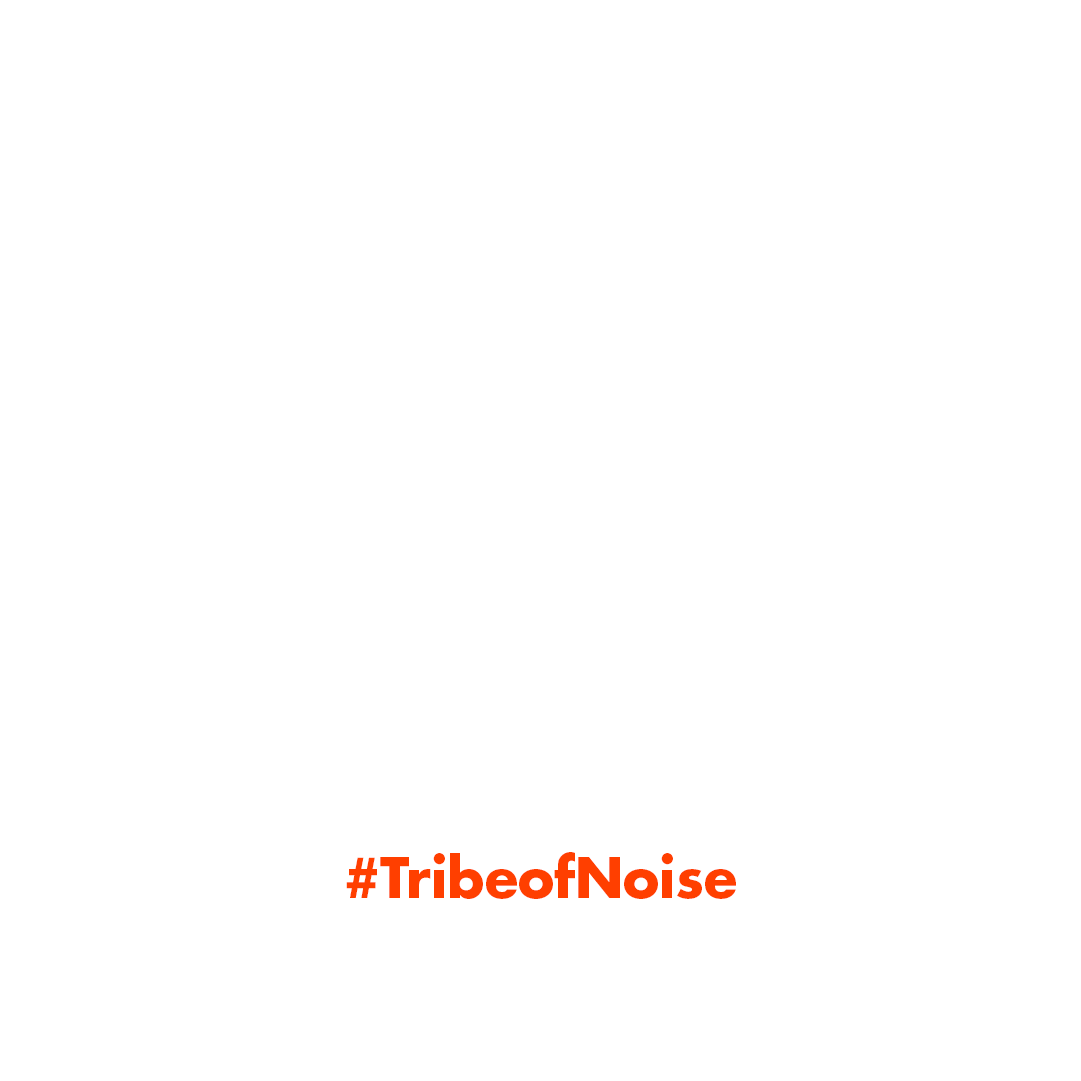
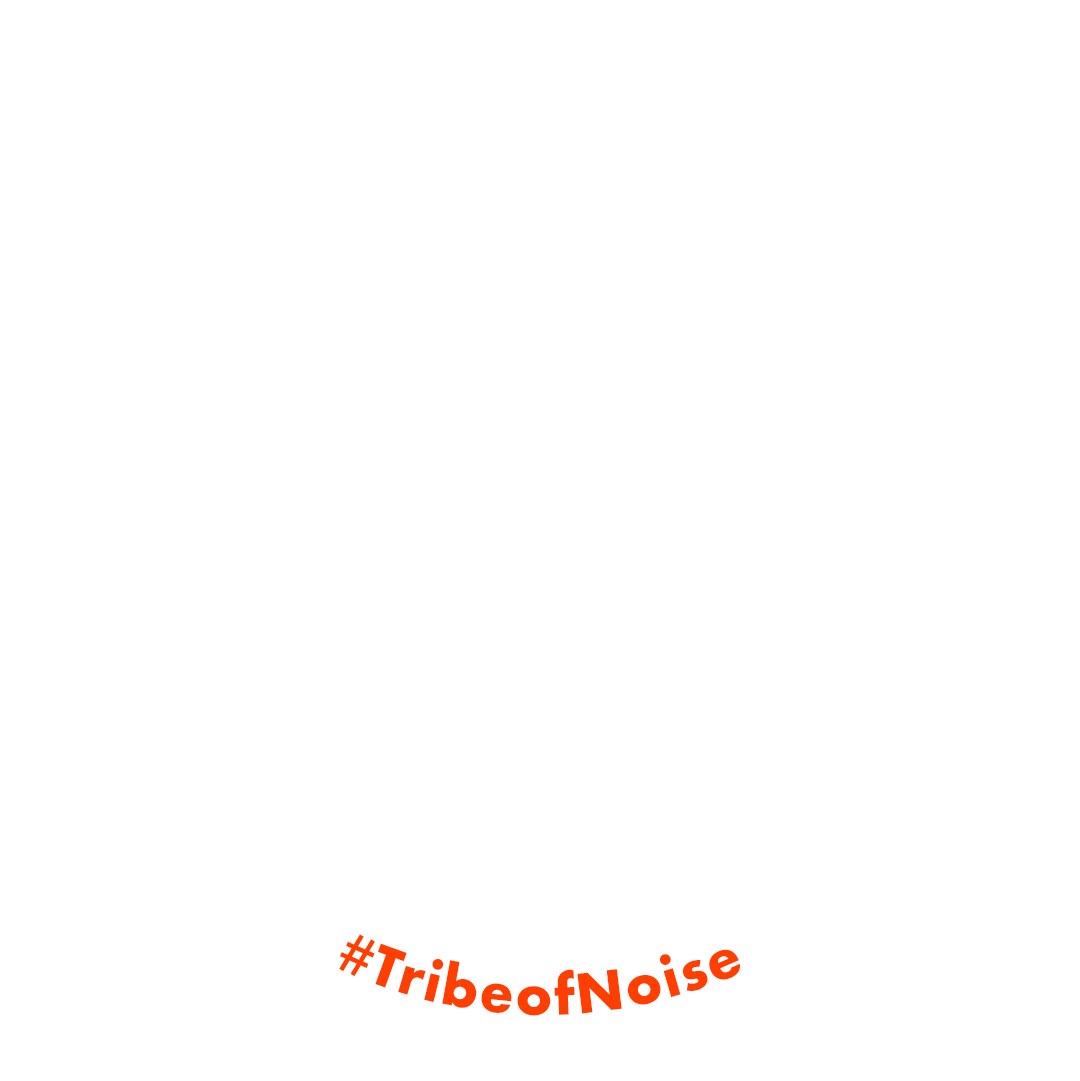
Added new tags and frames

Changed region(s): [[0.3056, 0.8548, 0.7028, 0.9463], [0.3056, 0.7937, 0.7028, 0.8548]]

diff --git a/src/FrameChooser.js b/src/FrameChooser.js
@@ -8,15 +8,15 @@ function FrameChooser({onChange}) {
         async function loadFrames(){
             Promise.all(
                 [
-                    'ProfileFrame Mixture3',
-                    'ProfileFrame Mixture1',
-                    'ProfileFrame Mixture4',
-                    'ProfileFrame Mixture5',
-                    'ProfileFrame Mixture7',
-                    'ProfileFrame Mixture6',
-                    'ProfileFrame Mixture8',
-                    'ProfileFrame Mixture9',
-                    'ProfileFrame Mixture10',
+                    'ProfileFrame-Mixture1-Paars',
+                    'ProfileFrame-Mixture2-Rood',
+                    'ProfileFrame-Mixture3-Turqoise',
+                    'ProfileFrame-Mixture4-Blauw',
+                    'ProfileFrame-Mixture5-Lime',
+                    'ProfileFrame-Mixture6-Roze',
+                    'ProfileFrame-Mixture7-Groen',
+                    'ProfileFrame-Mixture8-Geel',
+                    'ProfileFrame-Mixture9-Zalmrood',
                 ]
                 .map(async frame_filename => {
                     return {

diff --git a/src/HashtagChooser.js b/src/HashtagChooser.js
@@ -10,6 +10,17 @@ function HashtagChooser({ onChange, getString }) {
             Promise.all(
                 [
                     '',
+                    '#CreativeCommons',
+                    '#MusicIsMyLife',
+                    '#MusicProducer',
+                    '#OpentoJam',
+                    '#Peacemaker',
+                    '#RecordingArtist',
+                    '#SafeMusic',
+                    '#ShareMusic',
+                    '#Songwriter',
+                    '#TribeMusician',
+                    '#TribeWarrior',
                     '#TribeofNoise',
                     '#GetHeard',
                     '#MusicUnites',

diff --git a/src/App.js b/src/App.js
@@ -5,7 +5,7 @@ import mergeImages from 'merge-images'
 import FrameChooser from './FrameChooser.js'
 import HashtagChooser from './HashtagChooser.js'
 import Editor from './Editor.js'
-import TribeLogo from './TribeofNoise.png'
+import TribeLogo from './TribeofNoise.svg'
 import orangeBG from './orangeBG.png'
 import empty_1x1 from './empty_1x1.png'
 
